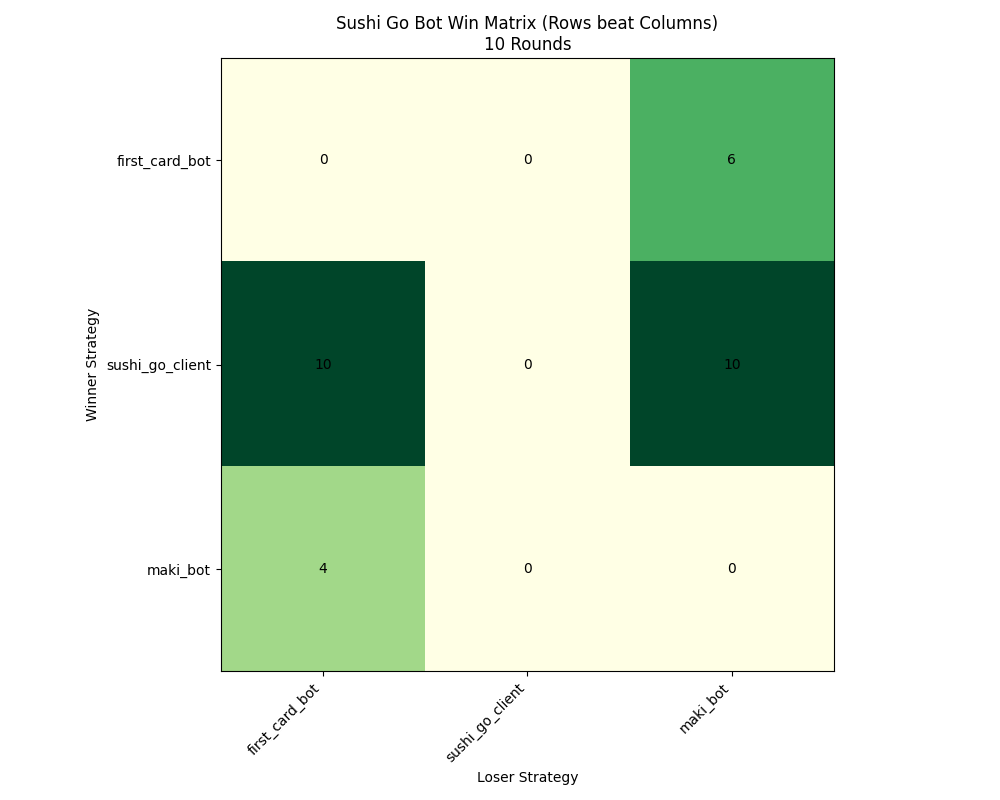
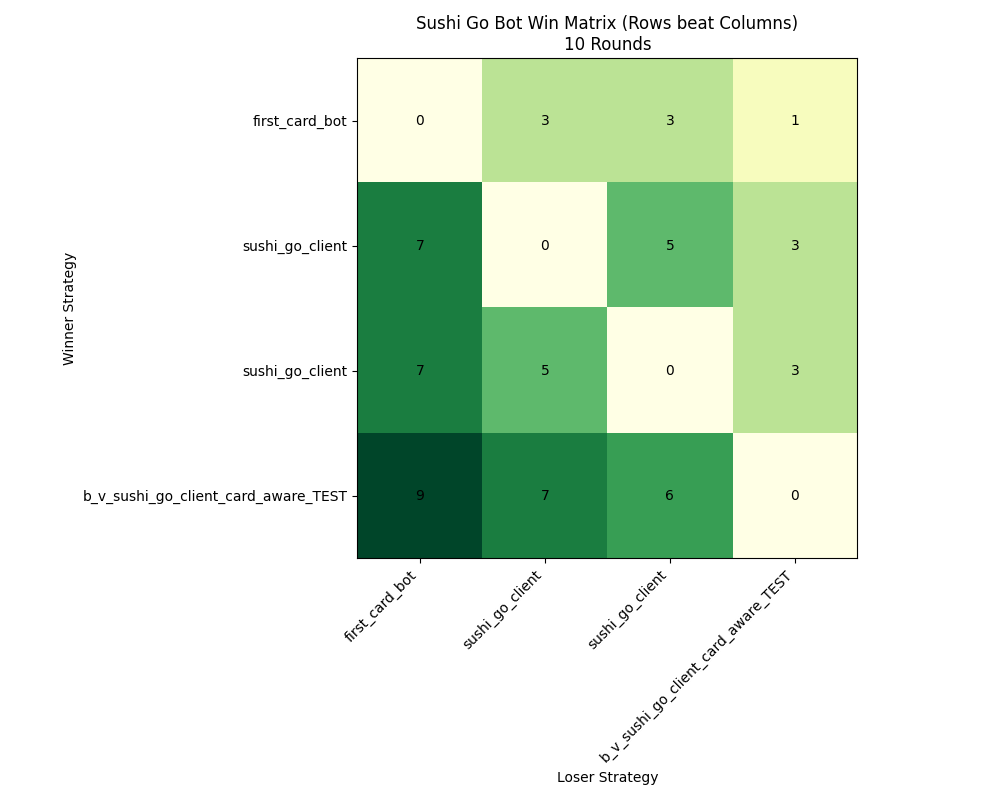
Test with all bots so far

diff --git a/python/sushi_bench.py b/python/sushi_bench.py
@@ -12,28 +12,58 @@ import pandas as pd
 SERVER_HOST = "localhost"
 SERVER_PORT = 7878
 WEB_URL = "http://localhost:8080/api/games"
-STRATEGIES = ["first_card_bot.py", "sushi_go_client.py", "maki_bot.py"]
-NUM_ROUNDS = 10 # Increase this for better data!
+# Ensure all bot files are in the same directory as this script
+STRATEGIES = ["first_card_bot.py", "sushi_go_client.py", "sushi_go_client.py", "b_v_sushi_go_client_card_aware_TEST.py"]
+NUM_ROUNDS = 10  # Increase this for better data!
+
 
 def create_game(num_players):
+    """Creates a new game via the REST API."""
     data = json.dumps({"max_players": num_players}).encode('utf-8')
     req = urllib.request.Request(WEB_URL, data=data, method='POST')
     req.add_header('Content-Type', 'application/json')
     try:
         with urllib.request.urlopen(req) as response:
             return response.getcode() == 200
-    except: return False
+    except:
+        return False
+
 
 def get_waiting_game_ids():
+    """Fetches the game list and returns IDs for all 'waiting' games."""
     try:
         with urllib.request.urlopen(WEB_URL) as response:
             data = json.loads(response.read().decode())
             games_list = data.get('games', [])
             return [g['id'] for g in games_list if g.get('status') == "waiting"]
-    except: return []
+    except:
+        return []
+
+
+def print_leaderboard(win_matrix, strat_names):
+    """
+    Calculates total wins for each strategy and prints an ordered leaderboard.
+    A 'win' is counted each time a strategy beats any other player in a round.
+    """
+    # Sum across the rows to get total head-to-head wins for each bot
+    total_wins = np.sum(win_matrix, axis=1)
+
+    # Pair names with their win counts and sort descending
+    leaderboard = sorted(zip(strat_names, total_wins), key=lambda x: x[1], reverse=True)
+
+    print("\n" + "=" * 30)
+    print("      FINAL LEADERBOARD")
+    print("=" * 30)
+    print(f"{'Strategy':<25} | {'Total Wins':<10}")
+    print("-" * 30)
+    for name, wins in leaderboard:
+        print(f"{name:<25} | {int(wins):<10}")
+    print("=" * 30 + "\n")
+
 
 def run_bench():
     num_strats = len(STRATEGIES)
+    # matrix[i][j] = how many times strat i beat strat j
     win_matrix = np.zeros((num_strats, num_strats), dtype=int)
     strat_names = [s.replace('.py', '') for s in STRATEGIES]
 
@@ -52,25 +82,19 @@ def run_bench():
             cmd = ["python3", script, SERVER_HOST, str(SERVER_PORT), game_id, name]
             procs.append((idx, subprocess.Popen(cmd, stdout=subprocess.PIPE, text=True)))
 
-
         game_scores = {}
         for idx, p in procs:
             stdout, _ = p.communicate()
-            # Look for the FINAL_RESULT line
             match = re.search(r"FINAL_RESULT: GAME_END (.*)", stdout)
             if match:
                 raw_data = match.group(1).strip()
-
-                # REPLACEMENT LOGIC: Find all "key": value or key: value pairs
-                # This works for both JSON {"name": 10} and legacy name: 10 formats
+                # Find all "key": value or key: value pairs
                 found_scores = re.findall(r'["\']?([\w-]+)["\']?\s*[:=]\s*(\d+)', raw_data)
-
                 for p_name, p_score in found_scores:
                     game_scores[p_name] = int(p_score)
 
-        # Calculate wins for the matrix
         if game_scores:
-            print(f"  Scores captured: {game_scores}")  # Debug print to see it working!
+            print(f"  Scores captured: {game_scores}")
             for w_idx in range(num_strats):
                 w_name = f"{strat_names[w_idx]}_{w_idx}"
                 for l_idx in range(num_strats):
@@ -79,9 +103,12 @@ def run_bench():
                     if game_scores.get(w_name, 0) > game_scores.get(l_name, 0):
                         win_matrix[w_idx][l_idx] += 1
 
-        print(f"Round {i+1}/{NUM_ROUNDS} complete.")
+        print(f"Round {i + 1}/{NUM_ROUNDS} complete.")
 
-    # Save to CSV and generate Heatmap
+    # 1. Print the text-based leaderboard
+    print_leaderboard(win_matrix, strat_names)
+
+    # 2. Save to CSV and generate Heatmap
     df = pd.DataFrame(win_matrix, index=strat_names, columns=strat_names)
     df.to_csv("win_matrix.csv")
 
@@ -100,7 +127,119 @@ def run_bench():
     ax.set_ylabel("Winner Strategy")
     fig.tight_layout()
     plt.savefig("win_heatmap.png")
-    print("\nSuccess! Results saved to win_matrix.csv and win_heatmap.png")
+    print("Success! Results saved to win_matrix.csv and win_heatmap.png")
+
 
 if __name__ == "__main__":
     run_bench()
+
+
+
+# import subprocess
+# import time
+# import json
+# import urllib.request
+# import re
+# import os
+# import matplotlib.pyplot as plt
+# import numpy as np
+# import pandas as pd
+#
+# # --- Configuration ---
+# SERVER_HOST = "localhost"
+# SERVER_PORT = 7878
+# WEB_URL = "http://localhost:8080/api/games"
+# STRATEGIES = ["first_card_bot.py", "sushi_go_client.py", "sushi_go_client.py", "b_v_sushi_go_client_card_aware_TEST.py"]
+# NUM_ROUNDS = 10 # Increase this for better data!
+#
+# def create_game(num_players):
+#     data = json.dumps({"max_players": num_players}).encode('utf-8')
+#     req = urllib.request.Request(WEB_URL, data=data, method='POST')
+#     req.add_header('Content-Type', 'application/json')
+#     try:
+#         with urllib.request.urlopen(req) as response:
+#             return response.getcode() == 200
+#     except: return False
+#
+# def get_waiting_game_ids():
+#     try:
+#         with urllib.request.urlopen(WEB_URL) as response:
+#             data = json.loads(response.read().decode())
+#             games_list = data.get('games', [])
+#             return [g['id'] for g in games_list if g.get('status') == "waiting"]
+#     except: return []
+#
+# def run_bench():
+#     num_strats = len(STRATEGIES)
+#     win_matrix = np.zeros((num_strats, num_strats), dtype=int)
+#     strat_names = [s.replace('.py', '') for s in STRATEGIES]
+#
+#     print(f"--- Starting Benchmark with JSON-Aware Parsing ---")
+#
+#     for i in range(NUM_ROUNDS):
+#         create_game(num_strats)
+#         time.sleep(0.5)
+#         ids = get_waiting_game_ids()
+#         if not ids: continue
+#         game_id = ids[-1]
+#
+#         procs = []
+#         for idx, script in enumerate(STRATEGIES):
+#             name = f"{script.split('.')[0]}_{idx}"
+#             cmd = ["python3", script, SERVER_HOST, str(SERVER_PORT), game_id, name]
+#             procs.append((idx, subprocess.Popen(cmd, stdout=subprocess.PIPE, text=True)))
+#
+#
+#         game_scores = {}
+#         for idx, p in procs:
+#             stdout, _ = p.communicate()
+#             # Look for the FINAL_RESULT line
+#             match = re.search(r"FINAL_RESULT: GAME_END (.*)", stdout)
+#             if match:
+#                 raw_data = match.group(1).strip()
+#
+#                 # REPLACEMENT LOGIC: Find all "key": value or key: value pairs
+#                 # This works for both JSON {"name": 10} and legacy name: 10 formats
+#                 found_scores = re.findall(r'["\']?([\w-]+)["\']?\s*[:=]\s*(\d+)', raw_data)
+#
+#                 for p_name, p_score in found_scores:
+#                     game_scores[p_name] = int(p_score)
+#
+#         # Calculate wins for the matrix
+#         if game_scores:
+#             print(f"  Scores captured: {game_scores}")  # Debug print to see it working!
+#             for w_idx in range(num_strats):
+#                 w_name = f"{strat_names[w_idx]}_{w_idx}"
+#                 for l_idx in range(num_strats):
+#                     if w_idx == l_idx: continue
+#                     l_name = f"{strat_names[l_idx]}_{l_idx}"
+#                     if game_scores.get(w_name, 0) > game_scores.get(l_name, 0):
+#                         win_matrix[w_idx][l_idx] += 1
+#
+#         print(f"Round {i+1}/{NUM_ROUNDS} complete.")
+#
+#     # Save to CSV and generate Heatmap
+#     df = pd.DataFrame(win_matrix, index=strat_names, columns=strat_names)
+#     df.to_csv("win_matrix.csv")
+#
+#     fig, ax = plt.subplots(figsize=(10, 8))
+#     im = ax.imshow(win_matrix, cmap="YlGn")
+#     ax.set_xticks(np.arange(num_strats), labels=strat_names)
+#     ax.set_yticks(np.arange(num_strats), labels=strat_names)
+#     plt.setp(ax.get_xticklabels(), rotation=45, ha="right")
+#
+#     for i in range(num_strats):
+#         for j in range(num_strats):
+#             ax.text(j, i, int(win_matrix[i, j]), ha="center", va="center", color="black")
+#
+#     ax.set_title(f"Sushi Go Bot Win Matrix (Rows beat Columns)\n{NUM_ROUNDS} Rounds")
+#     ax.set_xlabel("Loser Strategy")
+#     ax.set_ylabel("Winner Strategy")
+#     fig.tight_layout()
+#     plt.savefig("win_heatmap.png")
+#     print("\nSuccess! Results saved to win_matrix.csv and win_heatmap.png")
+#
+# if __name__ == "__main__":
+#     run_bench()
+#
+#

diff --git a/python/b_v_sushi_go_client_card_aware_TEST.py b/python/b_v_sushi_go_client_card_aware_TEST.py
@@ -1,0 +1,155 @@
+#!/usr/bin/env python3
+import random
+import re
+import socket
+import sys
+from dataclasses import dataclass
+from typing import Optional
+
+
+@dataclass
+class GameState:
+    game_id: str
+    player_id: int
+    hand: list[str]
+    player_name: str = ""
+    round: int = 1
+    turn: int = 1
+    played_cards: list[str] = None
+    opponent_cards: dict = None
+
+    def __post_init__(self):
+        if self.played_cards is None: self.played_cards = []
+        if self.opponent_cards is None: self.opponent_cards = {}
+
+    def opponent_total(self, card: str) -> int:
+        return sum(cards.count(card) for cards in self.opponent_cards.values())
+
+
+class SushiGoClient:
+    def __init__(self, host: str, port: int):
+        self.host = host
+        self.port = port
+        self.sock: Optional[socket.socket] = None
+        self.state: Optional[GameState] = None
+        self._recv_buffer = ""
+
+        # --- Your Exact Priority Strategy ---
+        self.PRIORITIES = {
+            (1, "early"): ["Sashimi", "Tempura", "Wasabi", "Squid Nigiri", "Salmon Nigiri", "Maki Roll (3)", "Dumpling",
+                           "Pudding", "Maki Roll (2)", "Egg Nigiri", "Maki Roll (1)", "Chopsticks"],
+            (1, "mid"): ["Tempura", "Squid Nigiri", "Sashimi", "Maki Roll (3)", "Wasabi", "Salmon Nigiri", "Dumpling",
+                         "Pudding", "Maki Roll (2)", "Egg Nigiri", "Maki Roll (1)", "Chopsticks"],
+            (1, "late"): ["Tempura", "Squid Nigiri", "Salmon Nigiri", "Sashimi", "Dumpling", "Maki Roll (3)",
+                          "Maki Roll (2)", "Pudding", "Wasabi", "Egg Nigiri", "Maki Roll (1)", "Chopsticks"],
+            (2, "early"): ["Wasabi", "Squid Nigiri", "Salmon Nigiri", "Maki Roll (3)", "Maki Roll (2)", "Tempura",
+                           "Sashimi", "Dumpling", "Pudding", "Egg Nigiri", "Maki Roll (1)", "Chopsticks"],
+            (2, "mid"): ["Squid Nigiri", "Salmon Nigiri", "Wasabi", "Tempura", "Sashimi", "Maki Roll (3)",
+                         "Maki Roll (2)", "Dumpling", "Pudding", "Egg Nigiri", "Maki Roll (1)", "Chopsticks"],
+            (2, "late"): ["Squid Nigiri", "Salmon Nigiri", "Tempura", "Dumpling", "Pudding", "Maki Roll (3)",
+                          "Maki Roll (2)", "Sashimi", "Wasabi", "Egg Nigiri", "Maki Roll (1)", "Chopsticks"],
+            (3, "early"): ["Pudding", "Wasabi", "Squid Nigiri", "Salmon Nigiri", "Maki Roll (3)", "Maki Roll (2)",
+                           "Tempura", "Sashimi", "Dumpling", "Egg Nigiri", "Maki Roll (1)", "Chopsticks"],
+            (3, "mid"): ["Pudding", "Squid Nigiri", "Salmon Nigiri", "Wasabi", "Dumpling", "Maki Roll (3)", "Tempura",
+                         "Maki Roll (2)", "Sashimi", "Egg Nigiri", "Maki Roll (1)", "Chopsticks"],
+            (3, "late"): ["Pudding", "Squid Nigiri", "Salmon Nigiri", "Dumpling", "Tempura", "Maki Roll (3)",
+                          "Maki Roll (2)", "Sashimi", "Wasabi", "Egg Nigiri", "Maki Roll (1)", "Chopsticks"],
+        }
+
+    def connect(self):
+        self.sock = socket.socket(socket.AF_INET, socket.SOCK_STREAM)
+        self.sock.connect((self.host, self.port))
+
+    def send(self, command: str):
+        self.sock.sendall((command + "\n").encode("utf-8"))
+
+    def receive(self) -> str:
+        while "\n" not in self._recv_buffer:
+            chunk = self.sock.recv(4096)
+            if not chunk: raise ConnectionError("Server closed connection")
+            self._recv_buffer += chunk.decode("utf-8", errors="replace")
+        line, self._recv_buffer = self._recv_buffer.split("\n", 1)
+        return line.strip()
+
+    def handle_message(self, message: str):
+        if message.startswith("HAND"):
+            # Parse hand
+            payload = message[len("HAND "):]
+            cards = [m.group(2).strip() for m in re.finditer(r"(\d+):(.*?)(?=\s\d+:|$)", payload)]
+            if self.state: self.state.hand = cards
+        elif message.startswith("ROUND_START"):
+            if self.state:
+                self.state.round = int(message.split()[1])
+                self.state.turn = 1
+                self.state.played_cards = []
+                self.state.opponent_cards = {}
+        elif message.startswith("PLAYED"):
+            # Track opponents
+            payload = message[7:]
+            for seg in payload.split("; "):
+                if ":" in seg:
+                    name, cards_str = seg.split(":", 1)
+                    if self.state and name.strip() != self.state.player_name:
+                        cards = [c.strip() for c in cards_str.split(",") if c.strip()]
+                        self.state.opponent_cards.setdefault(name.strip(), []).extend(cards)
+            if self.state: self.state.turn += 1
+        elif message.startswith("GAME_END"):
+            # CRITICAL: Benchmark needs this exact line to record scores
+            print(f"FINAL_RESULT: {message}")
+            return False
+        return True
+
+    def choose_card(self, hand: list[str]) -> int:
+        phase = "early" if self.state.turn <= 3 else "mid" if self.state.turn <= 7 else "late"
+        priority = list(self.PRIORITIES.get((self.state.round, phase), self.PRIORITIES[(1, "early")]))
+
+        # Wasabi / Completion / Sashimi Logic (Same as your previous design)
+        # Check for Wasabi
+        if any(c == "Wasabi" for c in self.state.played_cards) and not any(
+                c in ("Egg Nigiri", "Salmon Nigiri", "Squid Nigiri") for c in self.state.played_cards):
+            for n in ["Squid Nigiri", "Salmon Nigiri", "Egg Nigiri"]:
+                if n in hand:
+                    priority.insert(0, priority.pop(priority.index(n)))
+                    break
+
+        # Completion (Sashimi/Tempura)
+        if phase in ("mid", "late"):
+            if self.state.played_cards.count("Sashimi") % 3 == 2 and "Sashimi" in hand:
+                priority.insert(0, priority.pop(priority.index("Sashimi")))
+            elif self.state.played_cards.count("Tempura") % 2 == 1 and "Tempura" in hand:
+                priority.insert(0, priority.pop(priority.index("Tempura")))
+
+        for card in priority:
+            if card in hand: return hand.index(card)
+        return 0
+
+    def run(self, game_id: str, player_name: str):
+        self.connect()
+        self.send(f"JOIN {game_id} {player_name}")
+
+        running = True
+        while running:
+            message = self.receive()
+            if message.startswith("WELCOME"):
+                parts = message.split()
+                self.state = GameState(game_id=parts[1], player_id=int(parts[2]), hand=[], player_name=player_name)
+                self.send("READY")
+
+            running = self.handle_message(message)
+
+            if message.startswith("HAND") and self.state and self.state.hand:
+                idx = self.choose_card(self.state.hand)
+                played_card = self.state.hand[idx]
+                self.send(f"PLAY {idx}")
+                self.state.played_cards.append(played_card)
+
+
+if __name__ == "__main__":
+    # FIX: Match the benchmark's 4-argument call
+    if len(sys.argv) != 5:
+        print("Usage: python script.py <host> <port> <game_id> <player_name>")
+        sys.exit(1)
+
+    host, port, gid, name = sys.argv[1], int(sys.argv[2]), sys.argv[3], sys.argv[4]
+    client = SushiGoClient(host, port)
+    client.run(gid, name)
